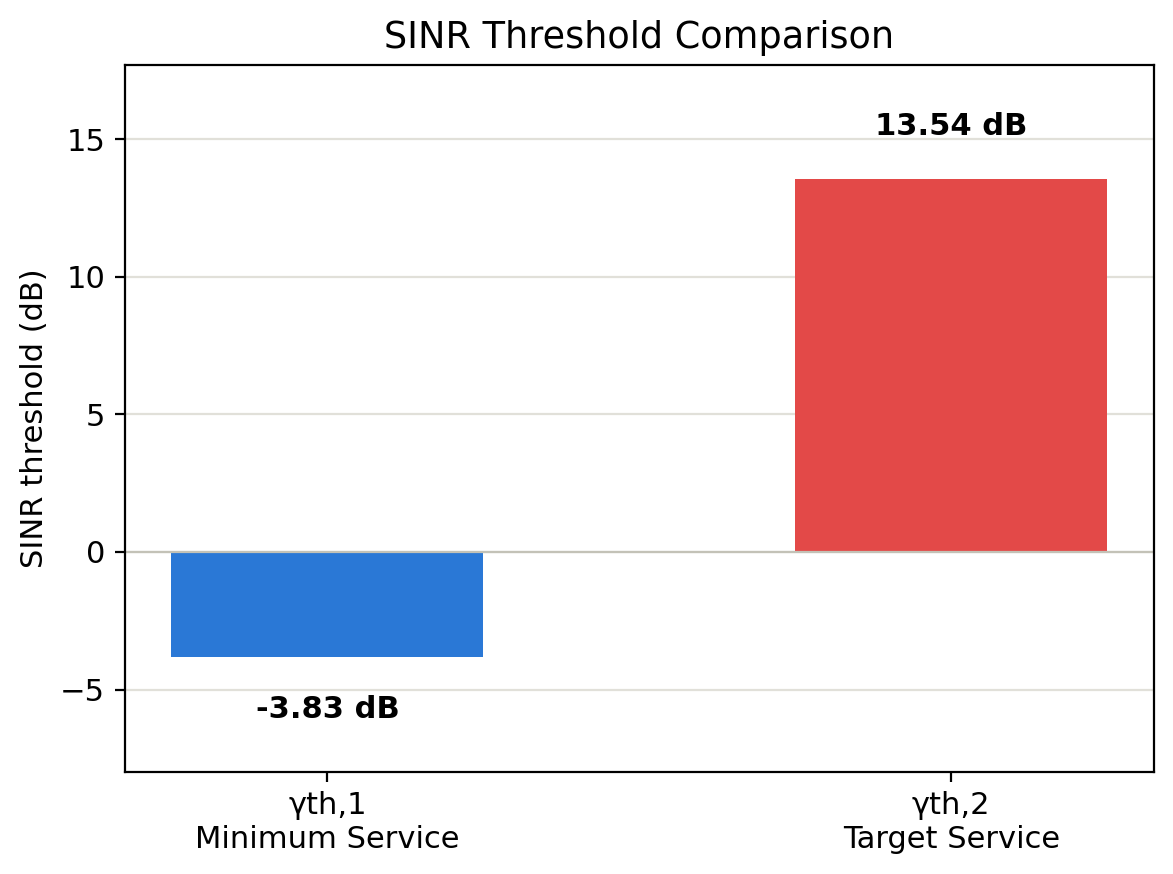
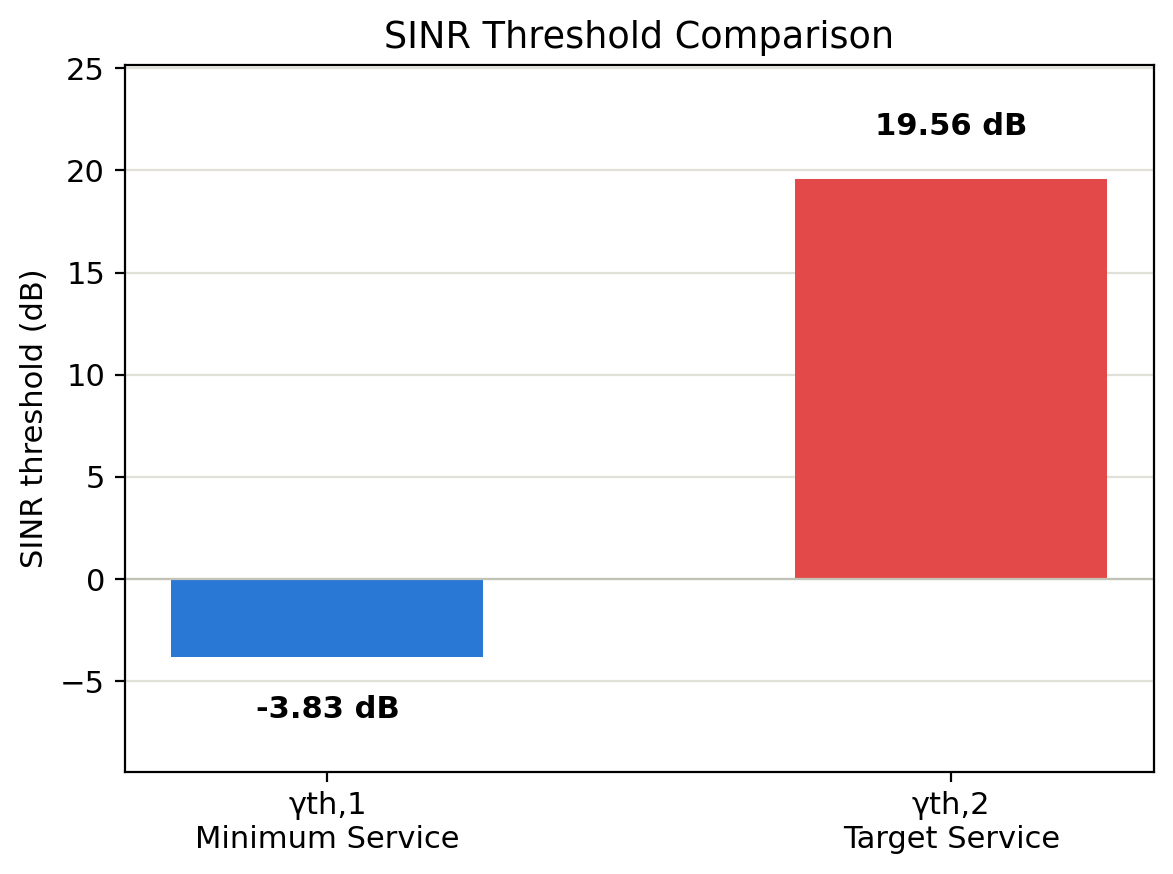
Corregir formula de gamma_th,2: BER=Q(sqrt(gamma)/2), no Q(sqrt(gamma))
Fix real de formula, no cambio de constante: I_signal en compute_sinr()
es el nivel ON de OOK (I_signal=R*Popt), no una potencia promedio. La
distancia de deteccion por umbral entre niveles 0/1 es el nivel ON
completo, lo que introduce un factor 4 en potencia respecto de
BER=Q(sqrt(gamma)). gamma_th,2 pasa de 13.54dB a 19.56dB.

Verificado: 0/324 celdas de outage_servicio_objetivo cambian en los 9
JSON oficiales (el margen del hibrido es >50dB en todos los casos). Se
mantiene 13.54dB documentado solo como nota de que el outage no depende
de cual de los dos se use.

Regenerado con el umbral corregido: tabla y grafico de umbrales (Fig.3),
linea punteada de resiliencia (Fig.4), FOVopt, comparacion de escenarios,
Pout por FOV. Agregada tabla nueva: outage LOS-only con ambos umbrales
(revela que con 19.56dB el LOS-only sin bloqueo ya esta 50-100% en
outage objetivo, sin ningun obstaculo).

Ademas, correccion de geometria en diff_direct_ray_fraction.csv: el
angulo del Tx (DIFF, fijo) no debe rotar con el pitch del receptor, solo
el angulo de incidencia en el Rx. Con el fix, el rayo directo explica
62-91% de la potencia DIFF en pitch 0/15 (ambos lados), y a pitch=30 se
anula en el lado que rota alejandose pero sube a ~86-95% en el lado que
rota acercandose (cos(32.1)=0.847) -- matiza correctamente la objecion
de pitch=0 vs. pitch=30 segun el lado del asiento.

Agregada tabla de FOV conjunto con banda de incertidumbre combinada: solo
[…]

diff --git a/codigo_comun/generar_tabla_outage_los_only_ingles.py b/codigo_comun/generar_tabla_outage_los_only_ingles.py
@@ -1,0 +1,93 @@
+"""
+Tabla de outage LOS-only con ambos umbrales (gamma_th,1 y gamma_th,2),
+pedida tras la correccion del umbral objetivo (13.54dB -> 19.56dB, ver
+noise_model.sinr_threshold_from_ber). Con el umbral nuevo, buena parte del
+LOS-only sin bloqueo (~18.4dB en pitch=0) ya queda bajo el objetivo -- algo
+que no se ve en ningun lado si solo se reporta el outage del Hybrid.
+
+Consolidado a FOV=90, los 9 escenarios, sobre SINR_LOS_dB (no SINR_hybrid_dB).
+"""
+import os, csv, json
+import matplotlib
+matplotlib.use("Agg")
+import matplotlib.pyplot as plt
+import noise_model as nm
+
+_THIS_DIR = os.path.dirname(os.path.abspath(__file__))
+_PROJECT_ROOT = os.path.abspath(os.path.join(_THIS_DIR, ".."))
+_GENERALES_DIR = os.path.join(_PROJECT_ROOT, "resultados_generales")
+_TABLES_DIR = os.path.join(_GENERALES_DIR, "tables")
+_GRAPHS_DIR = os.path.join(_GENERALES_DIR, "graphs")
+os.makedirs(_TABLES_DIR, exist_ok=True)
+os.makedirs(_GRAPHS_DIR, exist_ok=True)
+
+ESCENARIOS = [
+    "sin_bloqueo_0grados", "sin_bloqueo_15grados", "sin_bloqueo_30grados",
+    "bloqueo_carrito_0grados", "bloqueo_carrito_15grados", "bloqueo_carrito_30grados",
+    "bloqueo_persona_0grados", "bloqueo_persona_15grados", "bloqueo_persona_30grados",
+]
+NOMBRE_EN = {
+    "sin_bloqueo_0grados": "No Blockage – 0°", "sin_bloqueo_15grados": "No Blockage – 15°",
+    "sin_bloqueo_30grados": "No Blockage – 30°", "bloqueo_carrito_0grados": "Cart Blockage – 0°",
+    "bloqueo_carrito_15grados": "Cart Blockage – 15°", "bloqueo_carrito_30grados": "Cart Blockage – 30°",
+    "bloqueo_persona_0grados": "Passenger Blockage – 0°", "bloqueo_persona_15grados": "Passenger Blockage – 15°",
+    "bloqueo_persona_30grados": "Passenger Blockage – 30°",
+}
+
+gamma_th1_dB = nm.db(nm.sinr_threshold_from_shannon(nm.R_MIN_BPS, nm.BANDWIDTH_HZ))
+gamma_th2_dB = nm.db(nm.sinr_threshold_from_ber(nm.BER_MAX))
+
+rows = []
+for nombre in ESCENARIOS:
+    path = os.path.join(_PROJECT_ROOT, "escenarios", nombre, "resultados", "sinr_hibrido_oficial.json")
+    with open(path, encoding="utf-8") as f:
+        d = json.load(f)
+    fila90 = next(f for f in d["filas"] if f["fov_deg"] == 90.0)
+    vals = [v["SINR_LOS_dB"] for v in fila90["asientos"].values()]
+    n = len(vals)
+    pout_min = 100.0 * sum(1 for x in vals if x < gamma_th1_dB) / n
+    pout_obj = 100.0 * sum(1 for x in vals if x < gamma_th2_dB) / n
+    rows.append({"escenario": NOMBRE_EN[nombre], "pout_min": pout_min, "pout_obj": pout_obj})
+
+csv_path = os.path.join(_TABLES_DIR, "los_only_outage_both_thresholds.csv")
+with open(csv_path, "w", newline="", encoding="utf-8") as f:
+    w = csv.writer(f)
+    w.writerow(["Scenario", f"Outage_MinService_gamma1={gamma_th1_dB:.2f}dB_%",
+                f"Outage_TargetService_gamma2={gamma_th2_dB:.2f}dB_%"])
+    for r in rows:
+        w.writerow([r["escenario"], f"{r['pout_min']:.1f}", f"{r['pout_obj']:.1f}"])
+
+plt.rcParams.update({"font.family": "sans-serif", "font.size": 11,
+                      "figure.facecolor": "white", "axes.facecolor": "white"})
+col_labels = ["Scenario", f"Outage Min. Svc\n(γth,1={gamma_th1_dB:.2f}dB, %)",
+              f"Outage Target Svc\n(γth,2={gamma_th2_dB:.2f}dB, %)"]
+cell_text = [[r["escenario"], f"{r['pout_min']:.1f}%", f"{r['pout_obj']:.1f}%"] for r in rows]
+fig, ax = plt.subplots(figsize=(8.5, 0.42 * (len(rows) + 1) + 1.0), dpi=200)
+ax.axis("off")
+tabla = ax.table(cellText=cell_text, colLabels=col_labels, cellLoc="center", loc="center")
+tabla.auto_set_font_size(False)
+tabla.set_fontsize(9.5)
+tabla.scale(1, 2.4)
+for (row_i, col_i), cell in tabla.get_celld().items():
+    cell.set_edgecolor("#e1e0d9")
+    if row_i == 0:
+        cell.set_facecolor("#f2f1ee")
+        cell.set_text_props(weight="bold", color="#0b0b0b")
+    elif row_i % 2 == 0:
+        cell.set_facecolor("#f7f6f3")
+ax.set_title("LOS-Only Outage at FOV=90°, Both Service Thresholds", fontsize=12.5, pad=14, loc="left", weight="bold")
+fig.text(0.01, -0.05,
+          "Unlike the hybrid link (0% outage everywhere at FOV=90), LOS-only already shows substantial target-\n"
+          "service outage with the corrected gamma_th,2=19.56dB -- including the no-blockage scenarios, since\n"
+          "unblocked LOS SINR (~18.4dB at pitch=0) sits below this threshold even with no obstruction at all.",
+          fontsize=7.5, color="#898781")
+fig.tight_layout()
+fig.savefig(os.path.join(_GRAPHS_DIR, "los_only_outage_both_thresholds.png"), bbox_inches="tight")
+plt.close(fig)
+
+print(f"gamma_th1={gamma_th1_dB:.2f}dB  gamma_th2={gamma_th2_dB:.2f}dB")
+for r in rows:
+    print(f"  {r['escenario']}: Pout_min={r['pout_min']:.1f}%  Pout_obj={r['pout_obj']:.1f}%")
+print("\nSaved to:", _GENERALES_DIR)
+print("  - tables/los_only_outage_both_thresholds.csv")
+print("  - graphs/los_only_outage_both_thresholds.png")

diff --git a/codigo_comun/generar_tabla_umbrales.py b/codigo_comun/generar_tabla_umbrales.py
@@ -25,7 +25,7 @@ gamma_th2_dB = nm.db(gamma_th2)
 rows = [
     {
         "umbral": "γth,1\nServicio Mínimo",
-        "criterio": f"Capacidad de Shannon-Hartley:\nR ≥ Rmin = {nm.R_MIN_BPS/1e6:.1f} Mbps",
+        "criterio": f"Capacidad de Shannon-Hartley:\nR ≥ Rmin = {nm.R_MIN_BPS/1e6:.1f} Mbps\n(γ definido sobre I_signal = nivel ON)",
         "formula": "γth = 2^(Rmin/B) − 1",
         "parametros": f"Rmin = {nm.R_MIN_BPS/1e6:.1f} Mbps\nB = {nm.BANDWIDTH_HZ/1e6:.1f} MHz",
         "valor_lineal": gamma_th1,
@@ -33,8 +33,8 @@ rows = [
     },
     {
         "umbral": "γth,2\nServicio Objetivo",
-        "criterio": f"BER objetivo, modulación OOK:\nBER ≤ {nm.BER_MAX:.0e}",
-        "formula": "BER = Q(√γth)\n⇒ γth = [Q⁻¹(BER)]²",
+        "criterio": f"BER objetivo, modulación OOK, detección por umbral:\nBER ≤ {nm.BER_MAX:.0e}",
+        "formula": "BER = Q(√γth / 2)\n⇒ γth = 4·[Q⁻¹(BER)]²",
         "parametros": f"BER_max = {nm.BER_MAX:.0e}",
         "valor_lineal": gamma_th2,
         "valor_dB": gamma_th2_dB,
@@ -80,7 +80,9 @@ for (row_i, col_i), cell in tabla.get_celld().items():
 ax.set_title("Umbrales de SINR (γth) usados en la Sección 5", fontsize=13, pad=16, loc="left", weight="bold")
 fig.text(0.01, -0.05,
           "B = ancho de banda eléctrico del receptor (supuesto de literatura VLC, ver noise_model.py). "
-          "Estos umbrales son constantes del sistema, iguales en todos los escenarios y FOVs.",
+          "Estos umbrales son constantes del sistema, iguales en todos los escenarios y FOVs. γth,2 incluye el\n"
+          "factor 4 porque I_signal en el código es el nivel ON (pico) de OOK, no una potencia media; con\n"
+          "γth,2=13.54dB (BER=Q(√γth), sin ese factor) ningún outage cambia: 0 de 324 celdas.",
           fontsize=8, color="#898781")
 fig.tight_layout()
 fig.savefig(os.path.join(_OUT_DIR, "tabla_umbrales_sinr.png"), bbox_inches="tight")

diff --git a/codigo_comun/generar_tabla_umbrales_ingles.py b/codigo_comun/generar_tabla_umbrales_ingles.py
@@ -33,7 +33,7 @@ gamma_th2_dB = nm.db(gamma_th2)
 rows = [
     {
         "umbral": "γth,1\nMinimum Service",
-        "criterio": f"Shannon-Hartley capacity:\nR ≥ Rmin = {nm.R_MIN_BPS/1e6:.1f} Mbps",
+        "criterio": f"Shannon-Hartley capacity:\nR ≥ Rmin = {nm.R_MIN_BPS/1e6:.1f} Mbps\n(γ defined on I_signal = ON level)",
         "formula": "γth = 2^(Rmin/B) − 1",
         "parametros": f"Rmin = {nm.R_MIN_BPS/1e6:.1f} Mbps\nB = {nm.BANDWIDTH_HZ/1e6:.1f} MHz",
         "valor_lineal": gamma_th1,
@@ -41,8 +41,8 @@ rows = [
     },
     {
         "umbral": "γth,2\nTarget Service",
-        "criterio": f"Target BER, OOK modulation:\nBER ≤ {nm.BER_MAX:.0e}",
-        "formula": "BER = Q(√γth)\n⇒ γth = [Q⁻¹(BER)]²",
+        "criterio": f"Target BER, OOK modulation, threshold detection:\nBER ≤ {nm.BER_MAX:.0e}",
+        "formula": "BER = Q(√γth / 2)\n⇒ γth = 4·[Q⁻¹(BER)]²",
         "parametros": f"BER_max = {nm.BER_MAX:.0e}",
         "valor_lineal": gamma_th2,
         "valor_dB": gamma_th2_dB,
@@ -88,7 +88,9 @@ for (row_i, col_i), cell in tabla.get_celld().items():
 ax.set_title("SINR Thresholds (γth) used in Section 5", fontsize=13, pad=16, loc="left", weight="bold")
 fig.text(0.01, -0.05,
           "B = receiver electrical bandwidth (VLC-literature assumption, see noise_model.py). "
-          "These thresholds are system constants, the same across all scenarios and FOVs.",
+          "These thresholds are system constants, the same across all scenarios and FOVs. gamma_th,2 includes\n"
+          "the factor of 4 because I_signal in the code is the OOK ON (peak) level, not an average power; with\n"
+          "gamma_th,2=13.54dB (BER=Q(sqrt(gamma_th)), without that factor) no outage changes: 0 of 324 cells.",
           fontsize=8, color="#898781")
 fig.tight_layout()
 fig.savefig(os.path.join(_GRAPHS_DIR, "sinr_threshold_table.png"), bbox_inches="tight")

diff --git a/codigo_comun/noise_model.py b/codigo_comun/noise_model.py
@@ -176,9 +176,21 @@ def q_function_inverse(p, tol=1e-12, max_iter=200):
 
 
 def sinr_threshold_from_ber(ber_max=BER_MAX):
-    """Para OOK con deteccion de umbral: BER = Q(sqrt(SINR))  =>  SINR_th = [Q^-1(BER)]^2."""
+    """Para OOK con deteccion de umbral, BER = Q(sqrt(gamma)/2) => gamma_th = 4*[Q^-1(BER)]^2.
+
+    El factor 4 (no 1, como en una version previa de esta funcion) es
+    consecuencia directa de que I_signal en compute_sinr() es el nivel
+    "ON" (pico) de OOK, I_signal=R*Pr con Pr=Popt (ver M4: Popt se define
+    como la potencia del simbolo ON, no la potencia optica media). La
+    distancia entre los niveles 0/1 en deteccion por umbral es el nivel
+    ON completo, no el nivel ON menos la media; eso introduce el factor 4
+    en potencia (factor 2 en amplitud) respecto de la formula BER=Q(sqrt(gamma))
+    que corresponderia a una definicion de gamma basada en SNR promedio.
+    Corregido tras revision: con BER=Q(sqrt(gamma)) se obtenia gamma_th2=13.54dB,
+    inconsistente con la propia definicion de I_signal del codigo; con el
+    factor 4 correcto, gamma_th2=19.56dB."""
     x = q_function_inverse(ber_max)
-    return x ** 2
+    return 4.0 * x ** 2
 
 
 def db(x):
